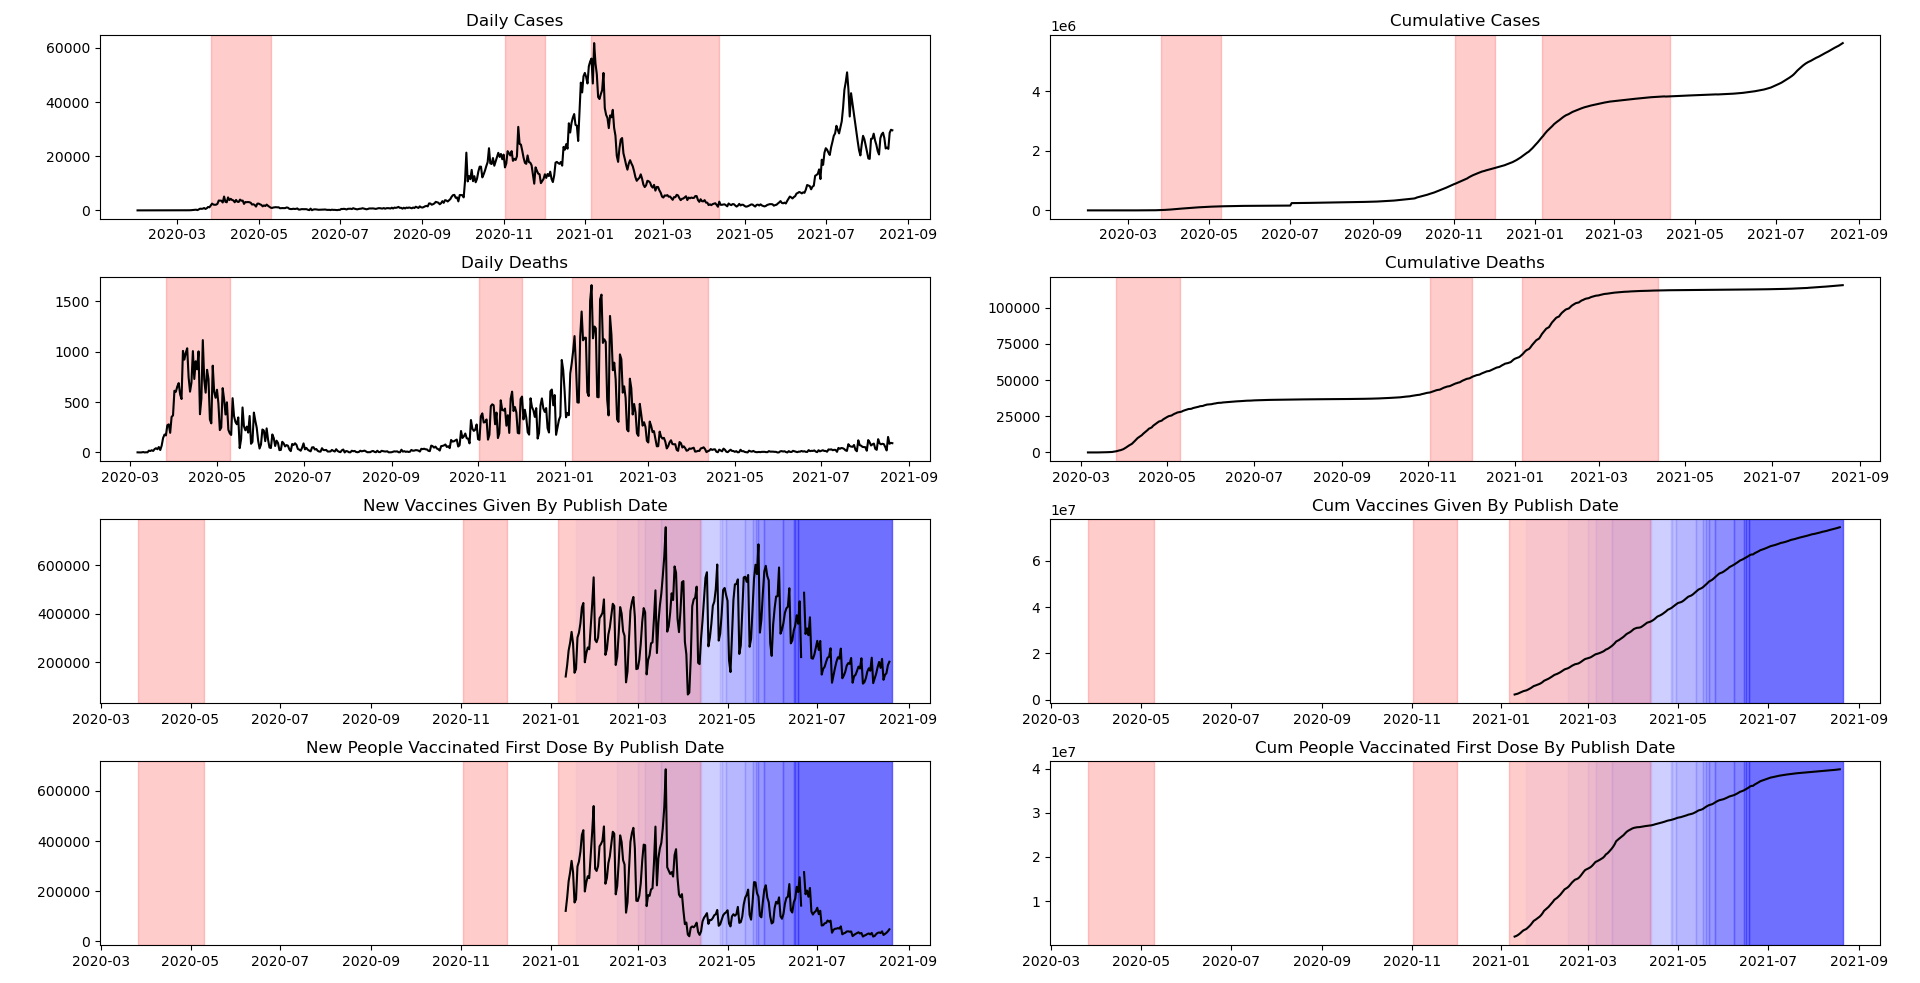
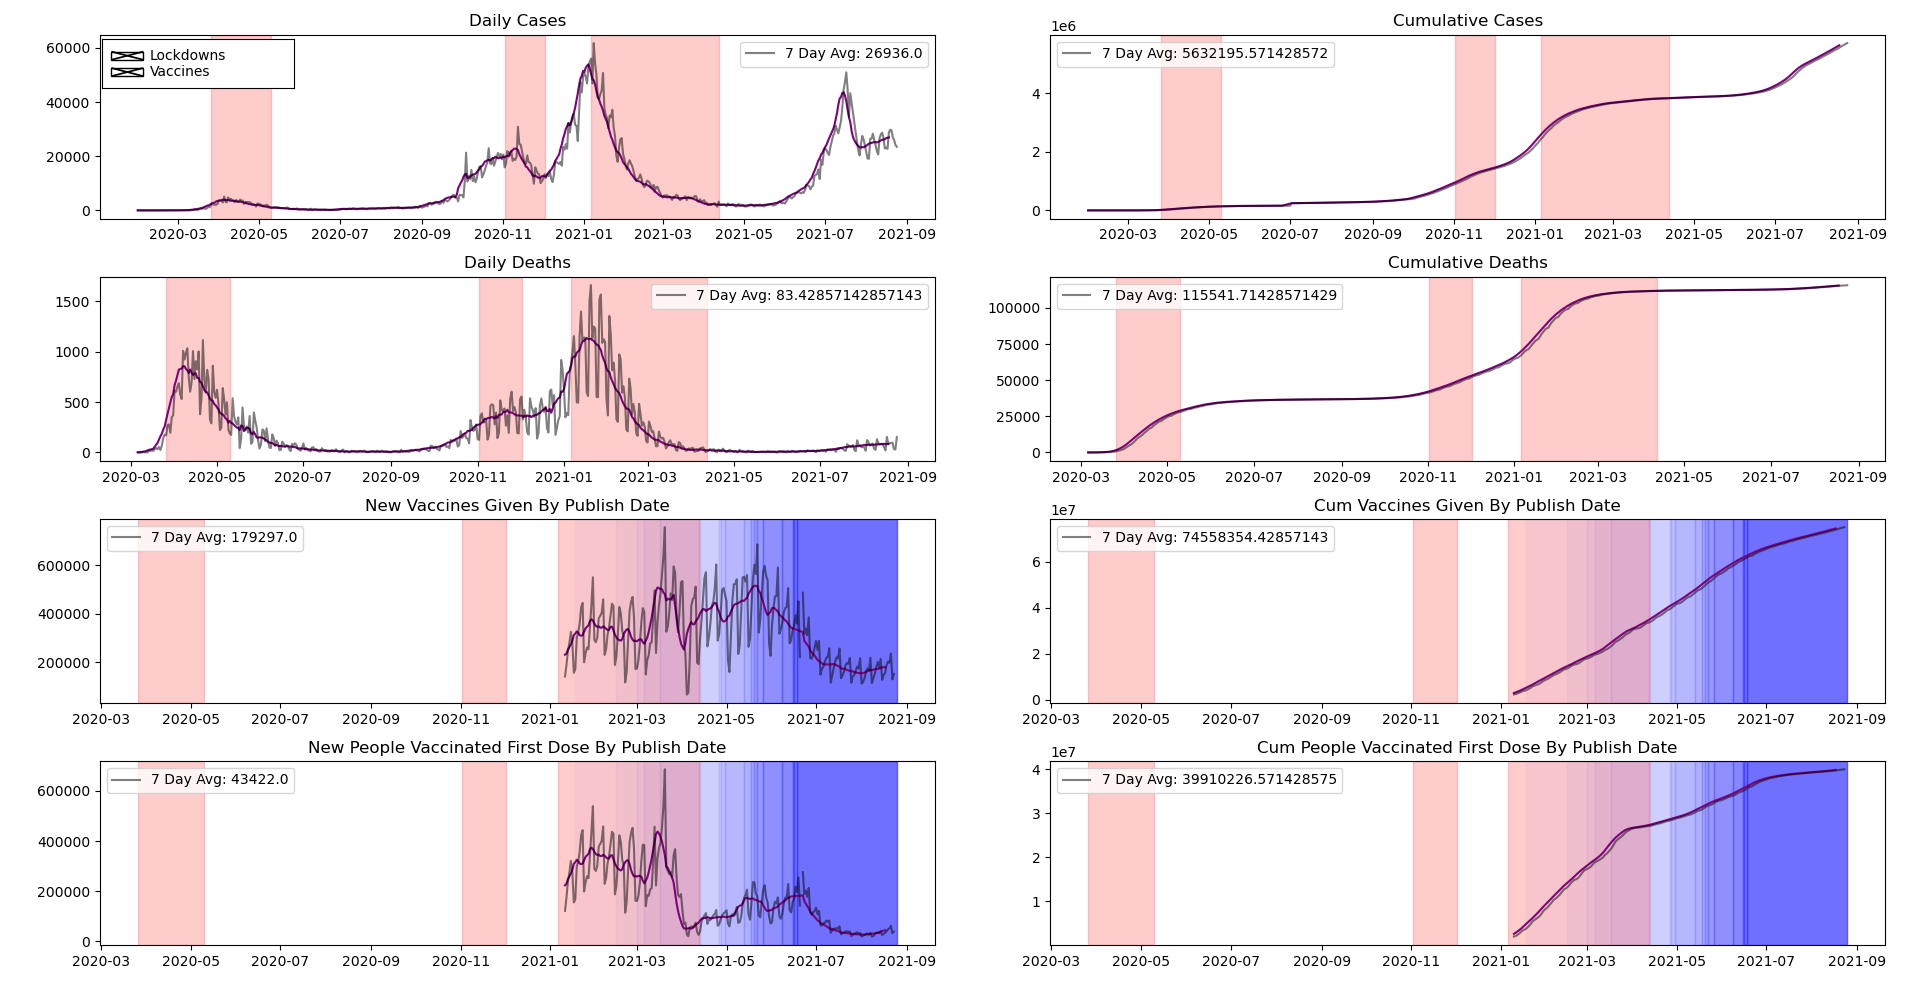
updated readme  and figure

diff --git a/README.md b/README.md
@@ -2,6 +2,9 @@
 ## Description
 This tool is designed to visualise the data that is available using the Covid-19 API provided by the United Kingdoms government.
 
+The red and blue parts indicate the national lockdowns and vaccine rollout respectively. 
+This highligting can be turned on and off using the checkboxes.
+
 I am not currently sure how I am gonna present the data.
 
 ## Example Figure:
